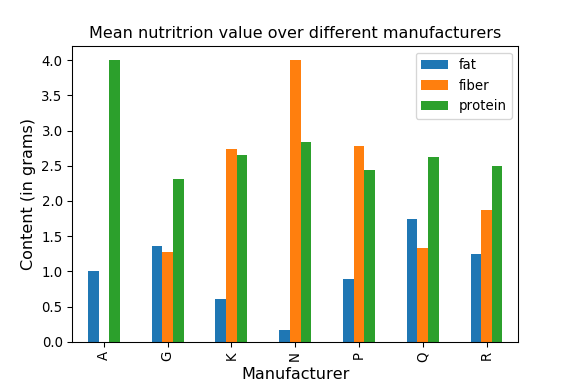
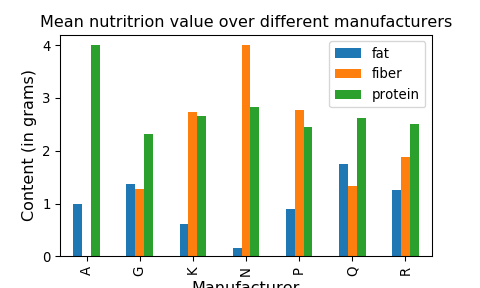
checked module 2 slides for lost text

Changed region(s): [[0.0312, 0.0312, 0.9375, 1.0], [0.0625, 0.125, 0.125, 0.1875], [0.75, 0.4062, 0.7812, 0.4375]]

diff --git a/chapters/en/slides/module2_19.md b/chapters/en/slides/module2_19.md
@@ -259,7 +259,7 @@ designate a new column name instead of an existing one. Let’s save the
 values in a column named `protein_level`.
 
 ``` python
-df.loc[df['protein'] >= 3, 'protein_level']  = 'High' 
+df.loc[df['protein'] >= 3, 'protein_level']  = 'high' 
 ```
 
 Next by the “low” values.
@@ -291,14 +291,12 @@ df.head()
 ```out
                               mfr  type  calories  protein  fat  sodium  fiber  carbo  sugars  potass  vitamins  shelf  weight  cups     rating protein_level
 name                                                                                                                                                         
-100% Bran                       N  Cold        70        4    1     130   10.0    5.0       6     280        25      3     1.0  0.33  68.402973          High
-100% Natural Bran          Quaker  Cold       120        3    5      15    2.0    8.0       8     135         0      3     1.0  1.00  33.983679          High
-All-Bran                        K  Cold        70        4    1     260    9.0    7.0       5     320        25      3     1.0  0.33  59.425505          High
-All-Bran with Extra Fiber       K  Cold        50        4    0     140   14.0    8.0       0     330        25      3     1.0  0.50  93.704912          High
+100% Bran                       N  Cold        70        4    1     130   10.0    5.0       6     280        25      3     1.0  0.33  68.402973          high
+100% Natural Bran          Quaker  Cold       120        3    5      15    2.0    8.0       8     135         0      3     1.0  1.00  33.983679          high
+All-Bran                        K  Cold        70        4    1     260    9.0    7.0       5     320        25      3     1.0  0.33  59.425505          high
+All-Bran with Extra Fiber       K  Cold        50        4    0     140   14.0    8.0       0     330        25      3     1.0  0.50  93.704912          high
 Almond Delight                  R  Cold       110        2    2     200    1.0   14.0       8       1        25      3     1.0  0.75  34.384843           low
 ```
-
-Super\!
 
 Notes: Script here
 

diff --git a/chapters/en/slides/module2_09.md b/chapters/en/slides/module2_09.md
@@ -84,7 +84,7 @@ These have a special meaning but for now, you only need to concentrate
 your attention on the fact that the argument `columns` needs to have the
 format:
 
-``` 
+``` python
  columns={'old-column-name':'new-column-name'}
 ```
 
@@ -203,7 +203,7 @@ in square brackets and this time we will remember to overwrite over the
 
 ``` python
 df = df.drop(columns=['nougat', 'coconut'])
-df.head()
+df.head(3)
 ```
 
 ```out
@@ -212,8 +212,6 @@ name
 Coffee Crisp        50          1        0        0                  1                0      0       Canada
 Butterfinger       184          1        1        1                  0                0      0      America
 Skor                39          1        0        1                  0                0      0         Both
-Smarties            45          1        0        0                  0                0      1       Canada
-Twix                58          1        0        1                  1                0      1         Both
 ```
 
 Notes: Script here

diff --git a/chapters/en/slides/module2_24.md b/chapters/en/slides/module2_24.md
@@ -33,8 +33,8 @@ df['mfr'].value_counts()
 K    23
 G    22
 P     9
-R     8
 Q     8
+R     8
 N     6
 A     1
 Name: mfr, dtype: int64
@@ -113,7 +113,7 @@ mfr_group
 ```
 
 ```out
-<pandas.core.groupby.generic.DataFrameGroupBy object at 0x11c664f60>
+<pandas.core.groupby.generic.DataFrameGroupBy object at 0x1222a8550>
 ```
 
 This returns a `DataFrame GroupBy` object. What exactly is this?
@@ -132,7 +132,7 @@ Notes: Script here
 
 ---
 
-<img src='/module2/groupby7.png'  alt="404 image" width = "80%" align="middle"/>
+<img src='/module2/groupby7.png'  alt="404 image" width = "70%" align="middle"/>
 
 Notes: Script here
 
@@ -687,7 +687,7 @@ nutrition_plot = nutrition_plot.set_xlabel('Manufacturer', fontsize=12)
 nutrition_plot
 ```
 
-<img src="/module2/module2_24/unnamed-chunk-20-1.png" width="576" />
+<img src="/module2/module2_24/unnamed-chunk-20-1.png" width="480" />
 
 Notes: Script here
 

diff --git a/chapters/en/slides/module2_16.md b/chapters/en/slides/module2_16.md
@@ -253,7 +253,7 @@ Notes: Script here
 
 ---
 
-## Multiple Condition Filtering - or
+## Multiple Condition Filtering - “or”
 
 Suppose that we are interested in cereals that either are made from the
 Quaker manufacturer **OR** a protein content above 4.  
